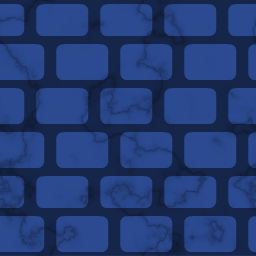
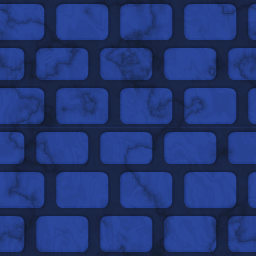
Added theme switching

diff --git a/src/terrain.js b/src/terrain.js
@@ -240,20 +240,60 @@ export default class Terrain extends Thing {
       return [xMin, yMin, xMax, yMax]
     }
 
+    const getStage = () => {
+      if (globals.level <= 5) {
+        return 1
+      }
+      if (globals.level > 15) {
+        return 3
+      }
+      return 2
+    }
+
     const getFloorTexture = (tileType) => {
-      if (tileType == 1) {return "path"}
-      if (tileType == 2) {return "path"}
-      if (tileType == 3) {return "path"}
-      if (tileType == 4) {return "goldenFloor"}
+      if (getStage() == 1) {
+        if (tileType == 1) {return "path"}
+        if (tileType == 2) {return "path"}
+        if (tileType == 3) {return "path"}
+        if (tileType == 4) {return "goldenFloor"}
+      }
+      else if (getStage() == 2) {
+        if (tileType == 1) {return "woodtile"}
+        if (tileType == 2) {return "woodtile"}
+        if (tileType == 3) {return "dirt"}
+        if (tileType == 4) {return "goldenFloor"}
+      }
+      else if (getStage() == 3) {
+        if (tileType == 1) {return "techfloor"}
+        if (tileType == 2) {return "tech1"}
+        if (tileType == 3) {return "techfloor"}
+        if (tileType == 4) {return "goldenFloor"}
+        return "techstone"
+      }
+      
       return "stone"
     }
 
     const getWallTexture = (tileType) => {
-      //return tileType ? (["stone", "sand"])[tileType-1] : "stone"
-      if (tileType == 1) {return "path"}
-      if (tileType == 2) {return "roomWall"}
-      if (tileType == 3) {return "stone"}
-      if (tileType == 4) {return "goldenWall"}
+      if (getStage() == 1) {
+        if (tileType == 1) {return "path"}
+        if (tileType == 2) {return "roomWall"}
+        if (tileType == 3) {return "stone"}
+        if (tileType == 4) {return "goldenWall"}
+      }
+      else if (getStage() == 2) {
+        if (tileType == 1) {return "path"}
+        if (tileType == 2) {return "wood"}
+        if (tileType == 3) {return "stone"}
+        if (tileType == 4) {return "goldenWall"}
+      }
+      else if (getStage() == 3) {
+        if (tileType == 1) {return "path"}
+        if (tileType == 2) {return "tech1"}
+        if (tileType == 3) {return "techstone"}
+        if (tileType == 4) {return "goldenWall"}
+        return "techstone"
+      }
       return "stone"
     }
 

diff --git a/src/procgeneral.js b/src/procgeneral.js
@@ -71,11 +71,11 @@ export class GeneratorParams {
     
     // Theme-based advancements
     if (this.theme == "cave") {
-      if (this.stage == 7) {
+      if (this.stage == 6) {
         this.caveMode = 13
         this.palaceIndoors = false
       }
-      else if (this.stage == 12) {
+      else if (this.stage == 11) {
         this.caveMode = 13
         this.palaceIndoors = true
       }

diff --git a/src/assets.js b/src/assets.js
@@ -62,6 +62,12 @@ const assets = {
     goldenWall: "brick2.png",
     oneUp: "oneup.png",
     visionPickup: "eye.png",
+    tech1: "tech1.png",
+    techstone: "stone3.png",
+    techfloor: "stone3_tile.png",
+    wood: "woodwall.png",
+    woodtile: "woodwalltop.png",
+    dirt: "dirt.png",
   },
 
   textureSettings: {},
